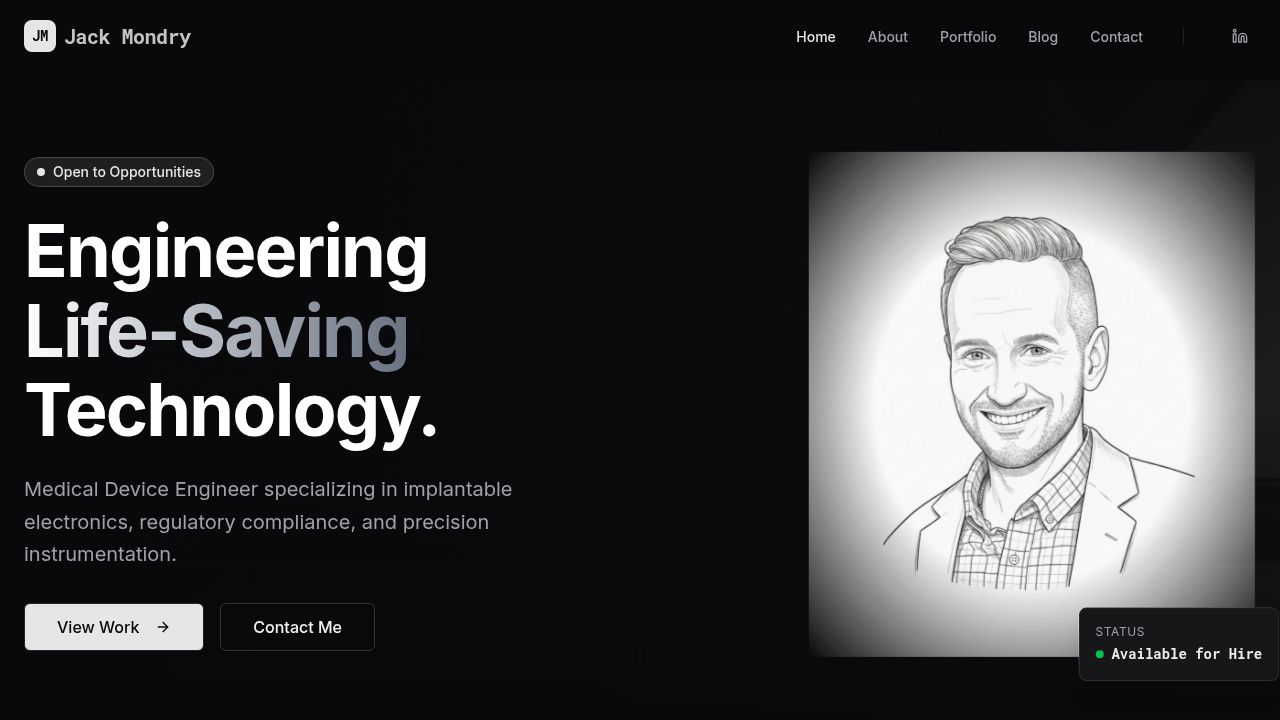
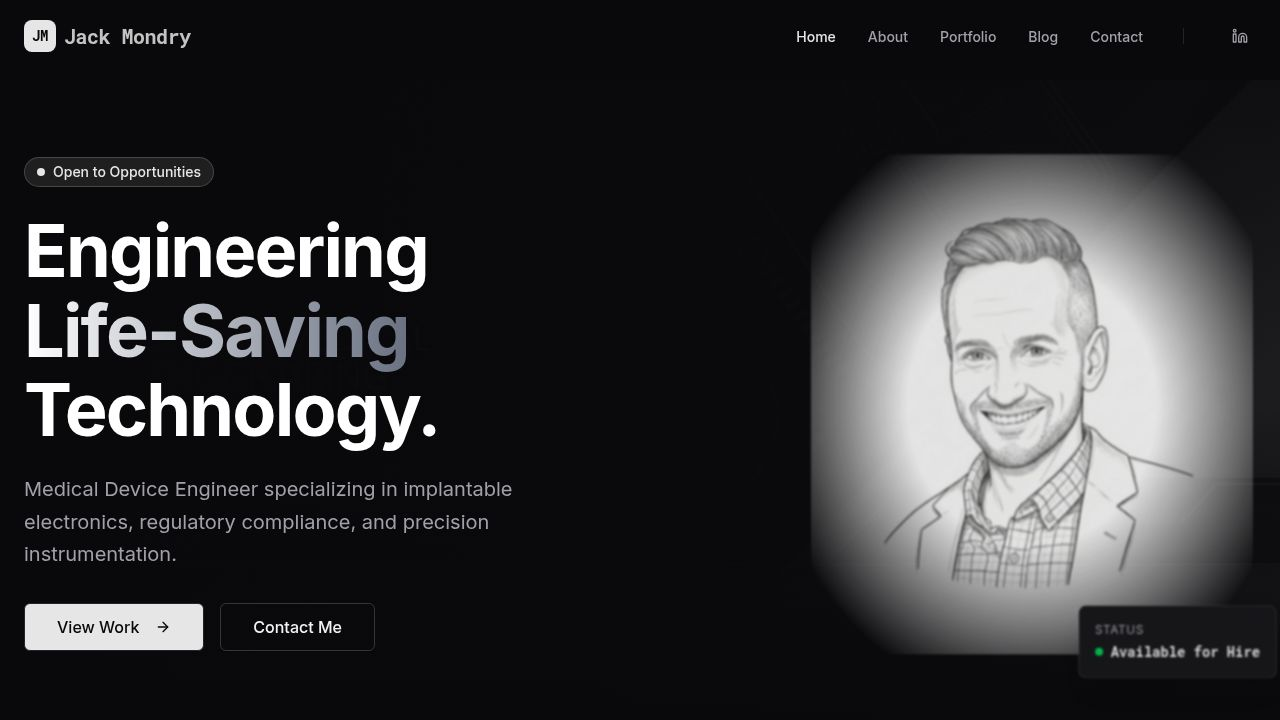
Update image masking to create a smoother fade effect
Adjust radial gradient mask to ellipse with custom stops for improved image blending.

Replit-Commit-Author: Agent
Replit-Commit-Session-Id: 705cbe7a-8598-41d9-beb2-e336cf6f642d
Replit-Commit-Checkpoint-Type: full_checkpoint
Replit-Commit-Event-Id: 0b344cb2-87fc-4393-9828-e14ffc09a975
Replit-Commit-Screenshot-Url: https://storage.googleapis.com/screenshot-production-us-central1/e57c73f6-bd70-426b-b3ee-581bf0628ea6/705cbe7a-8598-41d9-beb2-e336cf6f642d/xS01bYx
Replit-Helium-Checkpoint-Created: true

Changed region(s): [[0.625, 0.2139, 1.0, 0.9167]]

diff --git a/client/src/components/home/Hero.tsx b/client/src/components/home/Hero.tsx
@@ -72,8 +72,8 @@ export function Hero() {
                 alt="Jack Mondry" 
                 className="relative z-10 transition-all duration-700 object-cover w-full h-auto"
                 style={{ 
-                  maskImage: "radial-gradient(closest-side, black 55%, transparent 100%)",
-                  WebkitMaskImage: "radial-gradient(closest-side, black 55%, transparent 100%)"
+                  maskImage: "radial-gradient(ellipse at center, black 40%, transparent 85%)",
+                  WebkitMaskImage: "radial-gradient(ellipse at center, black 40%, transparent 85%)"
                 }}
               />
 
